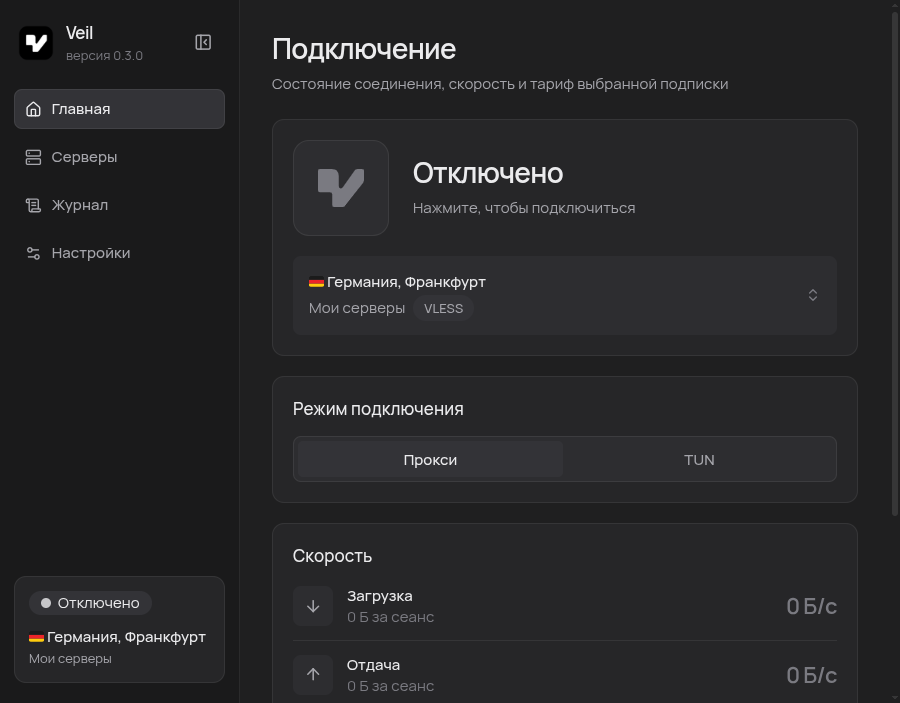
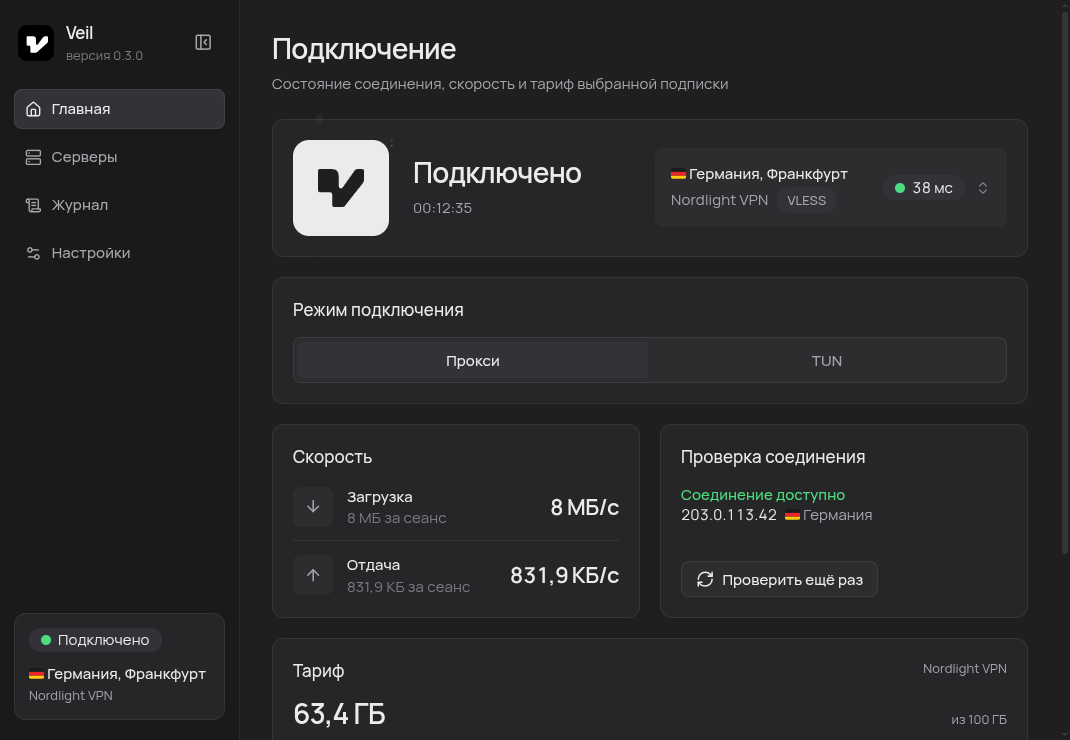
docs: обновить скриншоты: главная, серверы, журнал, настройки, внешний вид, о приложении

diff --git a/README.md b/README.md
@@ -42,31 +42,21 @@ All files are on the [Releases](https://github.com/maltira/veil-releases/release
 ## Screenshots
 
 <p align="center">
-  <img src="screenshots/02-servers.png" alt="Servers" width="49%">
-  <img src="screenshots/03-settings.png" alt="Settings" width="49%">
+  <img src="screenshots/01-home.png" alt="Main screen" width="100%">
 </p>
 
 <p align="center">
-  <img src="screenshots/04-logs.png" alt="Event log" width="49%">
+  <img src="screenshots/02-servers.png" alt="Servers" width="49%">
+  <img src="screenshots/03-logs.png" alt="Event log" width="49%">
+</p>
+
+<p align="center">
+  <img src="screenshots/04-settings.png" alt="Settings" width="49%">
   <img src="screenshots/05-appearance.png" alt="Appearance" width="49%">
 </p>
 
 <p align="center">
-  <img src="screenshots/06-icons.png" alt="48 app icons" width="49%">
-  <img src="screenshots/07-ping.png" alt="Server check settings" width="49%">
-</p>
-
-<p align="center">
-  <img src="screenshots/08-storage.png" alt="Data storage and reset" width="49%">
-</p>
-
-<p align="center">
-  <img src="screenshots/09-system.png" alt="System settings" width="49%">
-  <img src="screenshots/10-connection-settings.png" alt="Connection settings" width="49%">
-</p>
-
-<p align="center">
-  <img src="screenshots/11-subscriptions-settings.png" alt="Subscription settings" width="49%">
+  <img src="screenshots/06-about.png" alt="About" width="49%">
 </p>
 
 ## Notes
